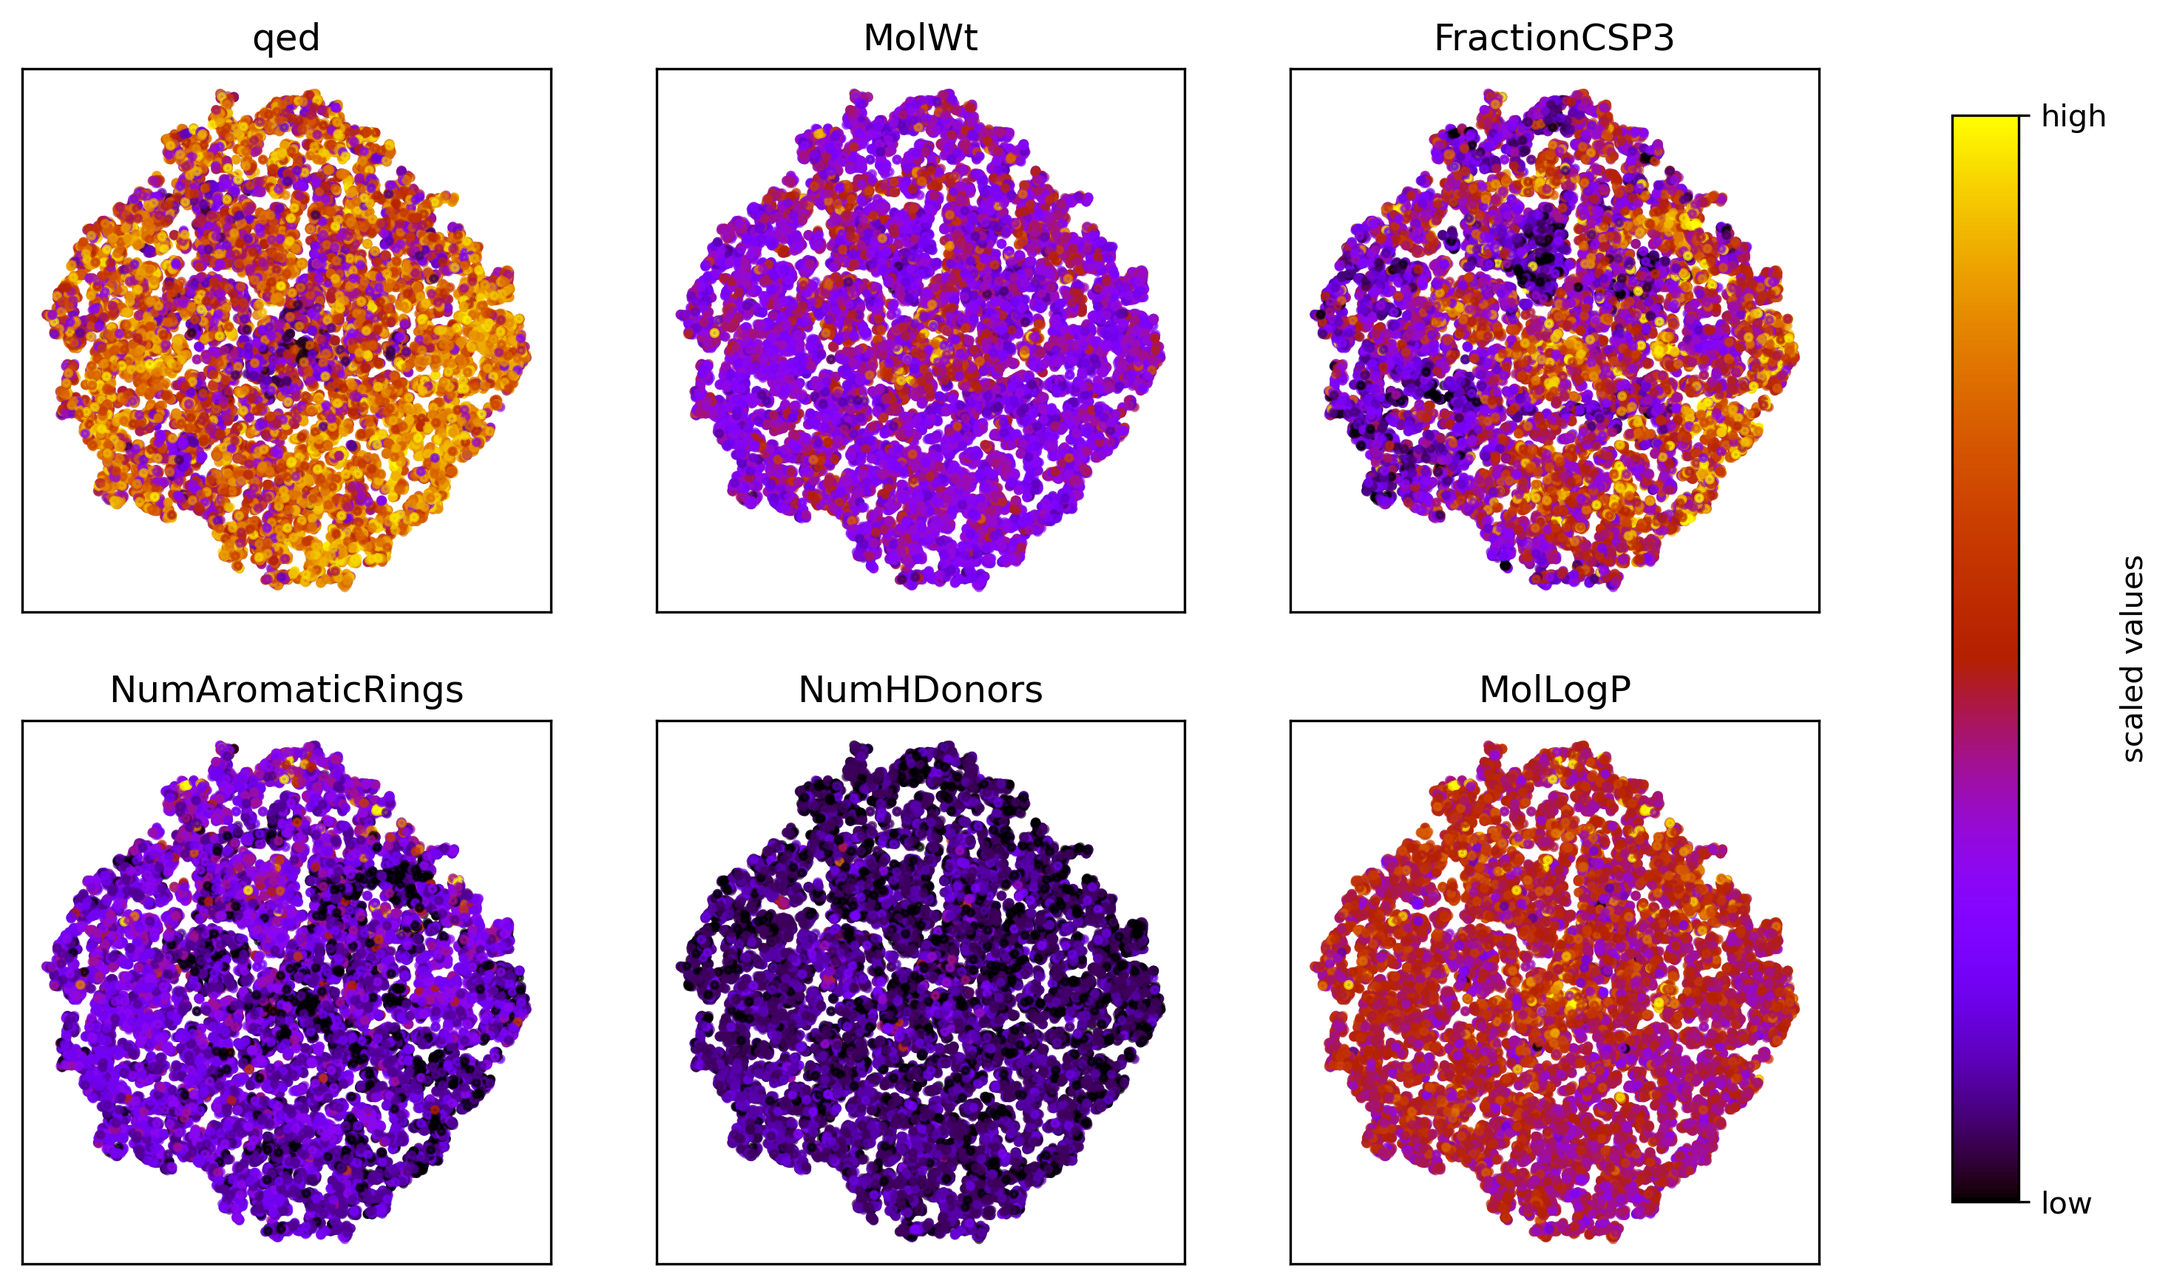
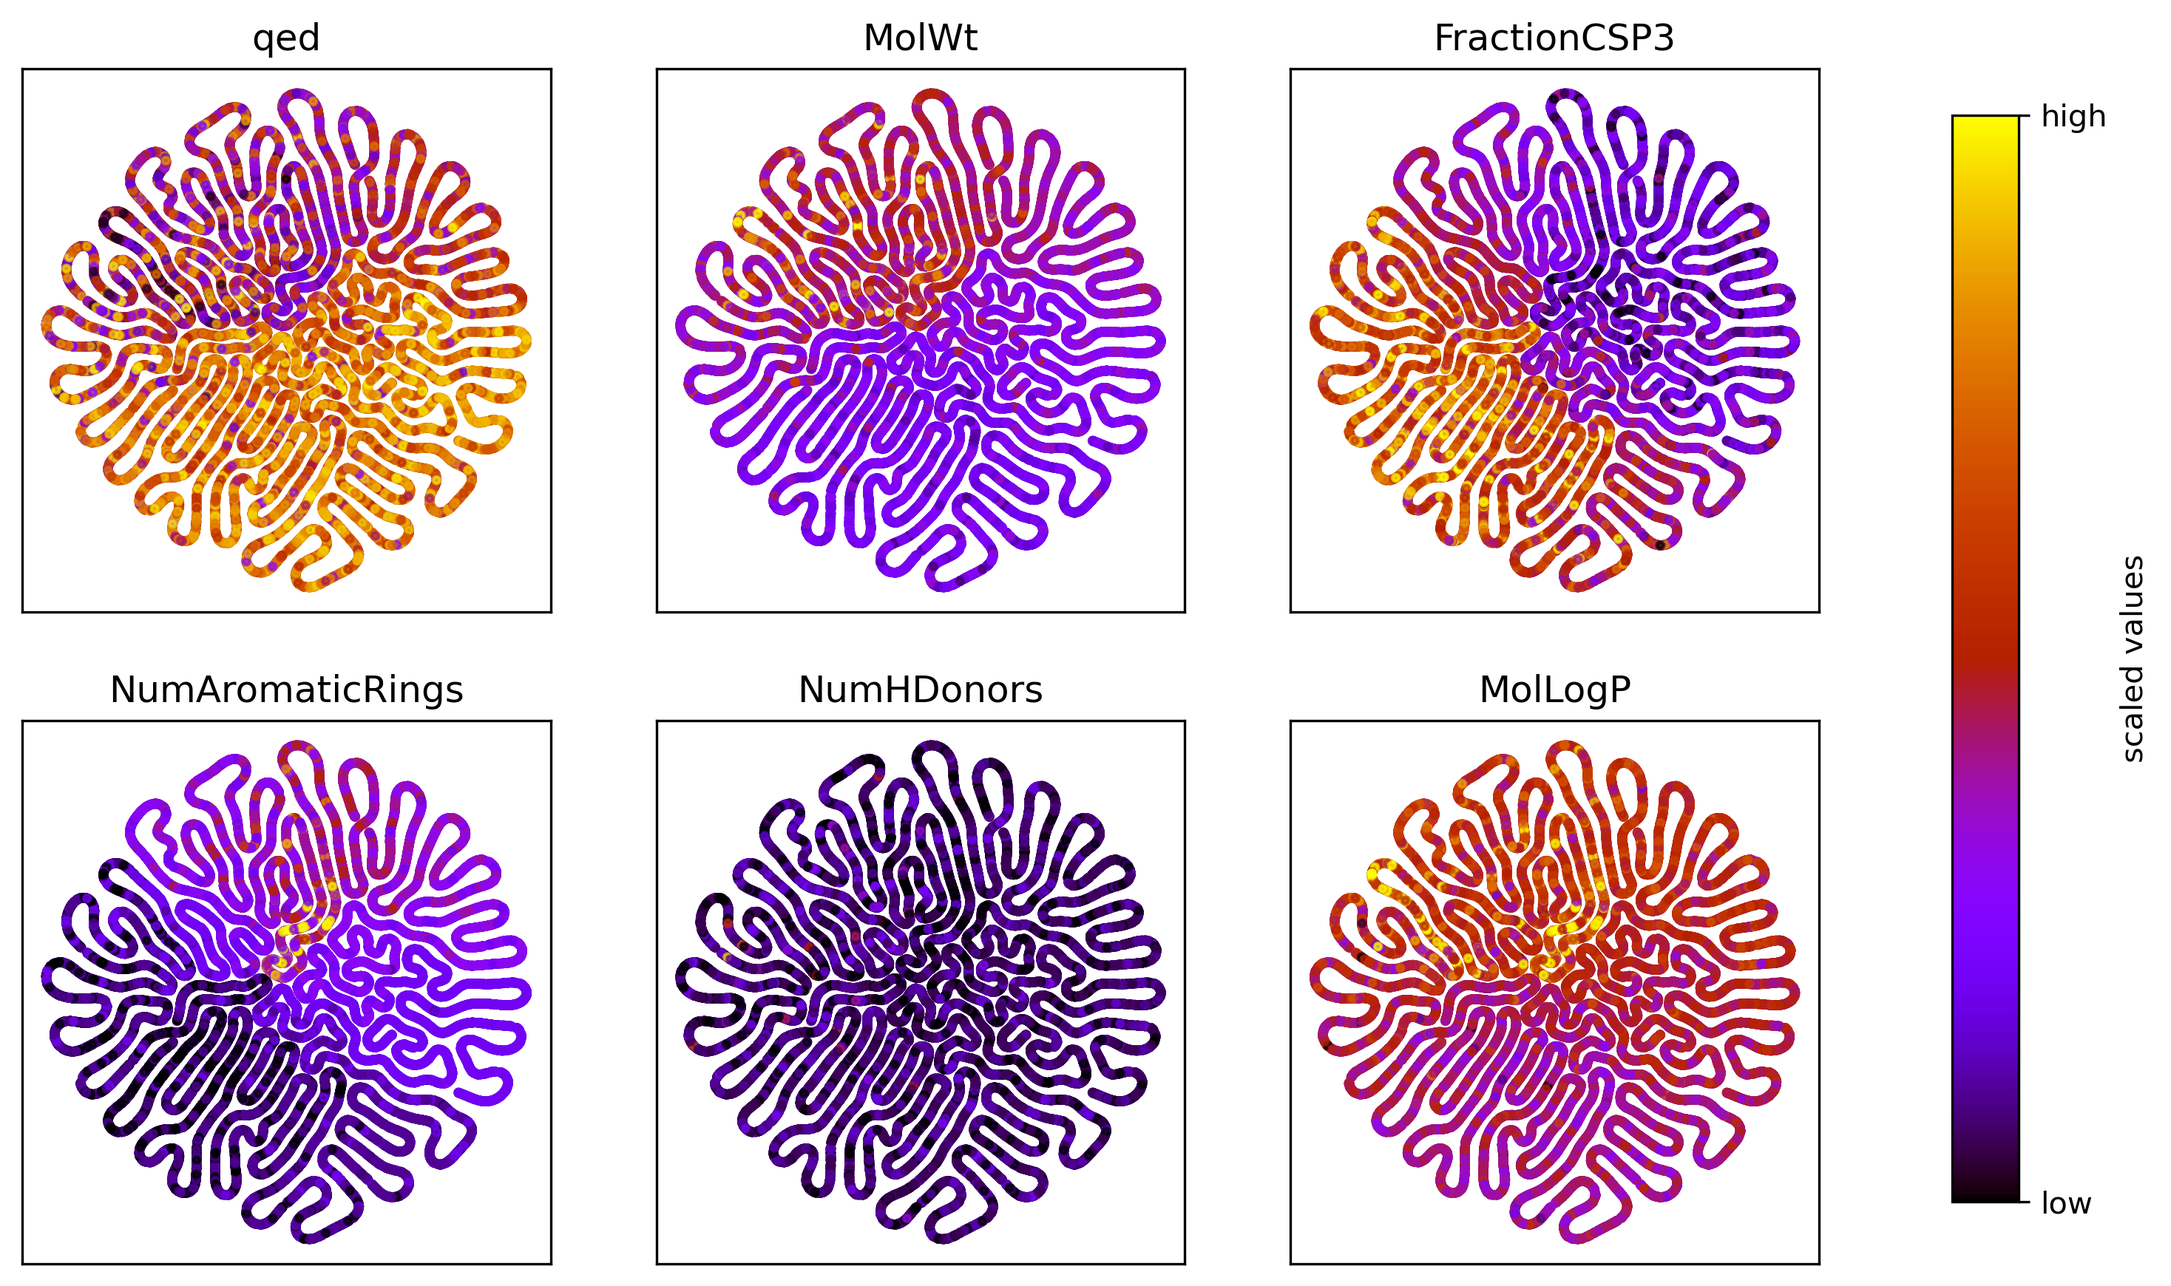
:truck: moved annealing, :sparkles: added new annealing variants

diff --git a/train.py b/train.py
@@ -21,8 +21,7 @@ from model import (
     LSTM,
     AttentiveFP,
     AttentiveFP2,
-    anneal_cycle_linear,
-    anneal_cycle_sigmoid,
+    create_annealing_schedule,
     reparameterize,
     vae_loss_func,
 )
@@ -63,7 +62,13 @@ DEVICE = "cuda" if torch.cuda.is_available() else "cpu"
 @click.option("--dim_mlp", "--dm", default=512, help="Hidden dimension of MLP layers")
 @click.option("--weight_prop", "--wp", default=20.0, help="Factor for weighting property loss in VAE loss")
 @click.option("--weight_vae", "--wk", default=0.2, help="Factor for weighting KL divergence loss in VAE loss")
-@click.option("--anneal_type", "--at", default="linear", help="Shape of cyclical annealing: linear or sigmoid")
+@click.option(
+    "--anneal_type",
+    "--at",
+    default="sigmoid",
+    help="Shape of VAE weight annealing: constant, linear, sigmoid, cyc_linear, cyc_sigmoid, cyc_sigmoid_lin",
+)
+@click.option("--anneal_start", "--as", default=10, help="Epoch at which to start VAE loss annealing.")
 @click.option("--anneal_cycle", "--ac", default=5, help="Number of epochs for one VAE loss annealing cycle")
 @click.option("--anneal_grow", "--ag", default=5, help="Number of annealing cycles with increasing values")
 @click.option("--anneal_ratio", "--ar", default=0.75, help="Fraction of annealing vs. constant VAE loss weight")
@@ -100,6 +105,7 @@ def main(
     weight_prop,
     weight_vae,
     anneal_type,
+    anneal_start,
     anneal_cycle,
     anneal_grow,
     anneal_ratio,
@@ -147,6 +153,7 @@ def main(
         "weight_props": weight_prop,
         "weight_vae": weight_vae,
         "anneal_type": anneal_type,
+        "anneal_start": anneal_start,
         "anneal_cycle": anneal_cycle,
         "anneal_grow": anneal_grow,
         "anneal_ratio": anneal_ratio,
@@ -231,21 +238,20 @@ def main(
     )
 
     # VAE loss weight annealing
-    anneal = []
-    if vae or wae:
-        total_steps = epochs * (epoch_steps if random else len(train_loader))
-        n_cycle = epochs // anneal_cycle
-        if epochs % anneal_cycle:
-            n_cycle += epochs % anneal_cycle
-        if anneal_type == "linear":
-            anneal = anneal_cycle_linear(total_steps, n_cycle=n_cycle, n_grow=anneal_grow, ratio=anneal_ratio)
-        elif anneal_type == "sigmoid":
-            anneal = anneal_cycle_sigmoid(total_steps, n_cycle=n_cycle, n_grow=anneal_grow, ratio=anneal_ratio)
+    anneal = create_annealing_schedule(
+        epochs,
+        epoch_steps if random else len(train_loader),
+        anneal_start,
+        anneal_cycle,
+        anneal_grow,
+        anneal_ratio,
+        anneal_type,
+    )
 
     for epoch in range(1, epochs + 1):
         print(f"\n---------- Epoch {epoch} ----------")
         time_start = time.time()
-        l_s, l_p, l_k, fk = train_one_epoch(
+        l_s, l_p, l_k, fv = train_one_epoch(
             gnn,
             rnn,
             mlp,
@@ -273,7 +279,7 @@ def main(
             epoch * len(train_loader),
             t2i,
             weight_prop,
-            weight_vae * fk,
+            weight_vae * fv,
             vae,
             wae,
         )
@@ -300,7 +306,7 @@ def main(
         print(
             f"Epoch: {epoch}, Train Loss SMILES: {l_s:.3f}, Train Loss Props.: {l_p:.3f}, Train Loss VAE.: {l_k:.3f}, "
             + f"Val. Loss SMILES: {l_vs:.3f}, Val. Loss Props.: {l_vp:.3f}, Val. Loss VAE.: {l_vk:.3f}, "
-            + f"Weight VAE: {fk * weight_vae:.6f}, Frac. valid: {valid:.3f}, LR: {last_lr:.6f}, "
+            + f"Weight VAE: {fv * weight_vae:.6f}, Frac. valid: {valid:.3f}, LR: {last_lr:.6f}, "
             + f"Time: {dur // 60:.0f}min {dur % 60:.0f}sec"
         )
 
@@ -359,7 +365,7 @@ def train_one_epoch(
             if wae:
                 mu, var = hn[0], None  # no reparameterization, output is "mean", no var needed for loss
             f_vae = asteps[(epoch - 1) * steps + step]  # annealing)
-            loss, loss_vae = vae_loss_func(loss_mol, loss_props, mu, var, wk * f_vae, wp, wae)
+            loss, loss_vae = vae_loss_func(loss_mol / j, loss_props, mu, var, wk * f_vae, wp, wae)
             total_vae += loss_vae.cpu().detach().numpy()
         else:
             # combine losses, apply desired weight to property loss
@@ -383,7 +389,7 @@ def train_one_epoch(
         if step % 500 == 0:
             print(f"Step: {step}/{steps}, Loss SMILES: {total_smls / step:.3f}, Loss Props.: {total_props / step:.3f}")
 
-    return (total_smls / step, total_props / step, total_vae / step, f_vae)
+    return (total_smls / steps, total_props / steps, total_vae / steps, f_vae)
 
 
 @torch.no_grad
@@ -428,7 +434,7 @@ def validate_one_epoch(gnn, rnn, mlp, criterion1, criterion2, valid_loader, writ
             if vae or wae:  # vae
                 if wae:
                     mu, var = hn[0], None  # no reparameterization, output is "mean", no var needed for loss
-                loss, loss_vae = vae_loss_func(mol_loss, total_props, mu, var, wk, wp, wae)
+                loss, loss_vae = vae_loss_func(mol_loss / j, total_props, mu, var, wk, wp, wae)
                 total_vae += loss_vae.cpu().detach().numpy()
             else:  # just weighted
                 loss = mol_loss + torch.multiply(loss_props, wp)

diff --git a/model.py b/model.py
@@ -346,15 +346,15 @@ def compute_mmd(z):
     return lamb * kern_pz.mean() + lamb * kern_z.mean() - 2 / (z.size(0) ** 2) * kern_pz_z.mean()
 
 
-def anneal_cycle_linear(n_iter, start=0.0, stop=1.0, n_cycle=8, n_grow=3, ratio=0.75):
-    w = np.ones(n_iter) * stop
-    period = n_iter / n_cycle
+def anneal_cycle_linear(n_steps, start=0.0, stop=1.0, n_cycle=8, n_grow=3, ratio=0.75):
+    w = np.ones(n_steps) * stop
+    period = int(n_steps / n_cycle)
 
     for c in range(n_cycle):
         stop_cur = min(stop, stop * (c + 1) / (n_grow + 1)) if n_grow else stop
         step = (stop_cur - start) / (period * ratio)  # linear schedule
         v, i = start, 0
-        while v <= stop_cur and (int(i + c * period) < n_iter):
+        while v <= stop_cur and (int(i + c * period) < n_steps):
             w[int(i + c * period)] = v
             v += step
             i += 1
@@ -362,17 +362,67 @@ def anneal_cycle_linear(n_iter, start=0.0, stop=1.0, n_cycle=8, n_grow=3, ratio=
     return w
 
 
-def anneal_cycle_sigmoid(n_iter, start=0.0, stop=1.0, n_cycle=8, n_grow=3, ratio=0.75):
-    w = np.ones(n_iter)
-    period = n_iter / n_cycle
+def anneal_cycle_sigmoid(n_steps, start=0.0, stop=1.0, n_cycle=8, n_grow=3, ratio=0.75):
+    w = np.ones(n_steps)
+    period = int(n_steps / n_cycle)
 
     for c in range(n_cycle):
         stop_cur = min(stop, stop * (c + 1) / (n_grow + 1)) if n_grow else stop
         step = (stop_cur - start) / (period * ratio)
         v, i = start, 0
-        while v <= stop_cur and (int(i + c * period) < n_iter):
+        while v <= stop_cur and (int(i + c * period) < n_steps):
             w[int(i + c * period)] = 1.0 / (1.0 + np.exp(-(v * 8.0 - 4.0)))
             v += step
             i += 1
         w[int(i + c * period) : int((c + 1) * period + 1)] = 1.0 / (1.0 + np.exp(-(v * 8.0 - 4.0)))
     return w
+
+
+def anneal_cycle_sigmoid_lin(n_steps, start=0.0, stop=1.0, n_cycle=8, n_grow=3, slope=1.5):
+    w = []
+    period = int(n_steps / n_cycle)
+    for c in range(n_cycle):
+        stop_cur = min(stop, stop * (c + 1) / (n_grow + 1)) if n_grow else stop
+        x = np.linspace(0, 1, period)
+        curve = start + (stop_cur - start) / (1 + 1000 ** (-slope * (x - 0.5)))
+        w.extend(curve.tolist())
+    return np.array(w)
+
+
+def anneal_const_linear(n_iter, start=0.0, stop=1.0):
+    return np.linspace(start, stop, n_iter)
+
+
+def anneal_const_sigmoid(n_iter, start=0.0, stop=1.0, slope=1.5):
+    x = np.linspace(0, 1, n_iter)
+    return start + (stop - start) / (1 + 1000 ** (-slope * (x - 0.5)))
+
+
+def create_annealing_schedule(epochs, epoch_steps, anneal_start, anneal_cycle, anneal_grow, anneal_ratio, anneal_type):
+    anneal = np.zeros(anneal_start * epoch_steps)
+    total_steps = (epochs - anneal_start) * epoch_steps
+    n_cycle = (epochs - anneal_start) // anneal_cycle
+    if (epochs - anneal_start) % anneal_cycle:
+        n_cycle += 1
+    if anneal_type == "cyc_linear":
+        anneal = np.concatenate(
+            (anneal, anneal_cycle_linear(total_steps, n_cycle=n_cycle, n_grow=anneal_grow, ratio=anneal_ratio))
+        ).flatten()
+    elif anneal_type == "cyc_sigmoid":
+        anneal = np.concatenate(
+            (anneal, anneal_cycle_sigmoid(total_steps, n_cycle=n_cycle, n_grow=anneal_grow, ratio=anneal_ratio))
+        ).flatten()
+    elif anneal_type == "cyc_sigmoid_lin":
+        anneal = np.concatenate(
+            (anneal, anneal_cycle_sigmoid_lin(total_steps, n_cycle=n_cycle, n_grow=anneal_grow))
+        ).flatten()
+    elif anneal_type == "linear":
+        anneal = np.concatenate((anneal, anneal_const_linear(total_steps))).flatten()
+    elif anneal_type == "sigmoid":
+        anneal = np.concatenate((anneal, anneal_const_sigmoid(total_steps))).flatten()
+    elif anneal_type == "constant":
+        anneal = np.concatenate((anneal, np.ones(total_steps))).flatten()
+    else:
+        raise NotImplementedError(f"Annealing type {anneal_type} not implemented.")
+
+    return anneal

diff --git a/finetune.py b/finetune.py
@@ -15,14 +15,7 @@ from torch.utils.tensorboard import SummaryWriter
 from torch_geometric.loader import DataLoader
 
 from dataset import AttFPDataset, AttFPTableDataset, load_from_fname, tokenizer
-from model import (
-    FFNN,
-    LSTM,
-    AttentiveFP,
-    AttentiveFP2,
-    anneal_cycle_linear,
-    anneal_cycle_sigmoid,
-)
+from model import FFNN, LSTM, AttentiveFP, AttentiveFP2, create_annealing_schedule
 from sampling import temperature_sampling
 from train import train_one_epoch, validate_one_epoch
 from utils import get_input_dims, mse_with_nans, read_config_ini
@@ -55,7 +48,13 @@ DEVICE = "cuda" if torch.cuda.is_available() else "cpu"
 @click.option("--n_sample", "--ns", default=100, help="Nr. SMILES to sample after each trainin epoch.")
 @click.option("--weight_prop", "--wp", default=10.0, help="Factor for weighting property loss in VAE loss")
 @click.option("--weight_vae", "--wk", default=0.2, help="Factor for weighting KL divergence loss in VAE loss")
-@click.option("--anneal_type", "--at", default="linear", help="Shape of cyclical annealing: linear or sigmoid")
+@click.option(
+    "--anneal_type",
+    "--at",
+    default="sigmoid",
+    help="Shape of VAE weight annealing: constant, linear, sigmoid, cyc_linear, cyc_sigmoid, cyc_sigmoid_lin",
+)
+@click.option("--anneal_start", "--as", default=0, help="Epoch at which to start VAE loss annealing.")
 @click.option("--anneal_cycle", "--ac", default=5, help="Number of epochs for one VAE loss annealing cycle")
 @click.option("--anneal_grow", "--ag", default=5, help="Number of annealing cycles with increasing values")
 @click.option("--anneal_ratio", "--ar", default=0.75, help="Fraction of annealing vs. constant VAE weight")
@@ -87,6 +86,7 @@ def main(
     anneal_cycle,
     anneal_grow,
     anneal_ratio,
+    anneal_start,
     anneal_type,
     vae,
     scale,
@@ -213,13 +213,15 @@ def main(
     )
 
     # VAE loss weight annealing
-    anneal = []
-    if vae:
-        total_steps = epochs * (epoch_steps if random else len(train_loader))
-        if anneal_type == "linear":
-            anneal = anneal_cycle_linear(total_steps, n_cycle=anneal_cycle, n_grow=anneal_grow, ratio=anneal_ratio)
-        elif anneal_type == "sigmoid":
-            anneal = anneal_cycle_sigmoid(total_steps, n_cycle=anneal_cycle, n_grow=anneal_grow, ratio=anneal_ratio)
+    anneal = create_annealing_schedule(
+        epochs,
+        epoch_steps if random else len(train_loader),
+        anneal_start,
+        anneal_cycle,
+        anneal_grow,
+        anneal_ratio,
+        anneal_type,
+    )
 
     for epoch in range(1, epochs + 1):
         print(f"\n---------- Epoch {epoch} ----------")

diff --git a/examples/benchmark.py b/examples/benchmark.py
@@ -62,9 +62,9 @@ def batchify(iterable, batch_size):
         yield batch
 
 
-def cv(dataset, summary_df, giraffe_model_ckpt, run_name, vae):
+def cv(dataset, summary_df, giraffe_model_ckpt, run_name):
     df, indices = get_data(dataset)
-    giraffe = GiraffeFeaturizer(giraffe_model_ckpt, vae)
+    giraffe = GiraffeFeaturizer(giraffe_model_ckpt)
     # ecfp = MorganFPFeaturizer(fp_size=2048, radius=2, use_counts=True, use_features=False)
     # rdkit_norm = PhysChemFeaturizer(normalise=True)
 
@@ -157,15 +157,14 @@ def cv(dataset, summary_df, giraffe_model_ckpt, run_name, vae):
     help="Checkpoint of the trained Giraffe model.",
 )
 @click.option("-n", "--name", default=None, help="Name of the benchmark run.")
-@click.option("-v", "--vae", is_flag=True, help="Sampling from a VAE model with mu and std.")
-def main(giraffe_model_ckpt, name, vae):
+def main(giraffe_model_ckpt, name):
     if not name:
         name = datetime.now().strftime("%Y-%m-%dT%H%M%S")
     summary_df = get_summary_df()
 
     for dataset in summary_df["task_name"].unique():
         print(f"Running experiment for {dataset}")
-        cv(dataset, summary_df, giraffe_model_ckpt, name, vae)
+        cv(dataset, summary_df, giraffe_model_ckpt, name)
 
 
 if __name__ == "__main__":

diff --git a/examples/benchmark_polaris.py b/examples/benchmark_polaris.py
@@ -26,17 +26,14 @@ logger.setLevel(logging.INFO)
 
 DEVICE = "cuda" if torch.cuda.is_available() else "cpu"
 BENCHMARKS = [
-    # "graphium/tox21-v1",
-    # "graphium/zinc12k-v1",
-    # "polaris/adme-fang-r-1",
-    # "polaris/adme-fang-PERM-1",
-    # "polaris/adme-fang-SOLU-1",
-    # "polaris/adme-fang-RPPB-1",
-    # "polaris/adme-fang-HPPB-1",
-    # "novartis/adme-novartis-cyp3a4-reg",
-    # "tdcommons/clearance-hepatocyte-az",
-    "tdcommons/cyp3a4-substrate-carbonmangels",
-    "tdcommons/solubility-aqsoldb",
+    "graphium/tox21-v1",
+    "graphium/zinc12k-v1",
+    "polaris/adme-fang-r-1",
+    "polaris/adme-fang-PERM-1",
+    "polaris/adme-fang-SOLU-1",
+    "polaris/adme-fang-RPPB-1",
+    "polaris/adme-fang-HPPB-1",
+    "novartis/adme-novartis-cyp3a4-reg",
 ]
 
 
@@ -148,7 +145,7 @@ def eval_one_epoch(model, valid_loader, classification=False):
 
 
 def cv(pol_username, dataset, giraffe_model_ckpt, max_epochs, patience, lr, batch_size, run_name, n_jobs):
-    giraffe = GiraffeFeaturizer(giraffe_model_ckpt, True, n_jobs=n_jobs)
+    giraffe = GiraffeFeaturizer(giraffe_model_ckpt, n_jobs=n_jobs)
 
     logger.info(f"Downloading and featurizing {dataset}...")
     benchmark, smls, y, smls_test = get_data(dataset)

diff --git a/featurizer.py b/featurizer.py
@@ -981,7 +981,6 @@ class GiraffeFeaturizer:
     def __init__(
         self,
         checkpoint_path: str,
-        vae: bool = False,
         n_jobs: int = 4,
         device: str = None,
     ) -> None:
@@ -995,14 +994,14 @@ class GiraffeFeaturizer:
         self.model_dir = os.path.abspath(os.path.join(os.path.dirname(__file__), os.path.dirname(checkpoint_path)))
         self.device = device or "cuda" if torch.cuda.is_available() else "cpu"
         self.dim_atom, self.dim_bond = get_input_dims()
-        self.vae = vae
         self.n_jobs = n_jobs
 
         # read config file
         conf = read_config_ini(self.model_dir)
+        self.vae = conf["vae"] == "True"
 
         # define model structure
-        GNN_Class = AttentiveFP2 if vae else AttentiveFP
+        GNN_Class = AttentiveFP2 if self.vae else AttentiveFP
         self.model = GNN_Class(
             in_channels=self.dim_atom,
             hidden_channels=conf["dim_gnn"],

diff --git a/examples/figure_latentspace.py b/examples/figure_latentspace.py
@@ -29,9 +29,9 @@ WDIR = os.path.dirname(os.path.abspath(__file__).replace("examples/", ""))
 @click.option("-c", "--checkpoint", type=click.Path(exists=True), default=f"{WDIR}/models/pub_vae_sig")
 @click.option("-j", "--n_jobs", default=6)
 @click.option("-t", "--tsne", is_flag=True, default=False)
-@click.option("-x", "--perplex", default=40)
+@click.option("-x", "--perplex", default=30)
 def main(filename, delim, smls_col, n_mols, epoch, checkpoint, n_jobs, tsne, perplex):
-    smls, embs = embed_file(filename, delim, smls_col, checkpoint, epoch, 512, n_mols, n_jobs)
+    smls, embs = embed_file(filename, delim, smls_col, None, checkpoint, epoch, 512, n_mols, n_jobs, False, None)
     # properties
     print("Calculating properties")
     sclr = PropertyScaler(["MolWt", "MolLogP", "qed", "NumHDonors", "NumAromaticRings", "FractionCSP3"], do_scale=True)

diff --git a/embedding.py b/embedding.py
@@ -26,7 +26,7 @@ DEVICE = "cuda" if torch.cuda.is_available() else "cpu"
 @click.option("-i", "--id_col", default=None, help="Name of column that contains compound IDs.")
 @click.option("-f", "--folder", default="models/pub_vae_sig", help="Checkpoint folder to load models from.")
 @click.option("-e", "--epoch", default=70, help="Epoch of models to load.")
-@click.option("-b", "--batch_size", default=512, help="Batch size to use for embedding.")
+@click.option("-b", "--batch_size", default=256, help="Batch size to use for embedding.")
 @click.option("-n", "--n_mols", default=0, help="Number of molecules to randomly sub-sample. Default: 0 = all")
 @click.option("-j", "--n_jobs", default=4, help="Number of cores to use for data loader.")
 @click.option("-x", "--prec", default=4, help="Float precision")

diff --git a/examples/figure_annealing.py b/examples/figure_annealing.py
@@ -82,7 +82,7 @@ def main():
     # X-axis label
     plt.xticks(
         list(range(0, steps + 10000, 10000)),
-        (f"{10*i}k" for i in range(0, int(steps / 10000) + 1)),
+        (f"{10 * i}k" for i in range(0, int(steps / 10000) + 1)),
         color="k",
         size=14,
         rotation=45,
